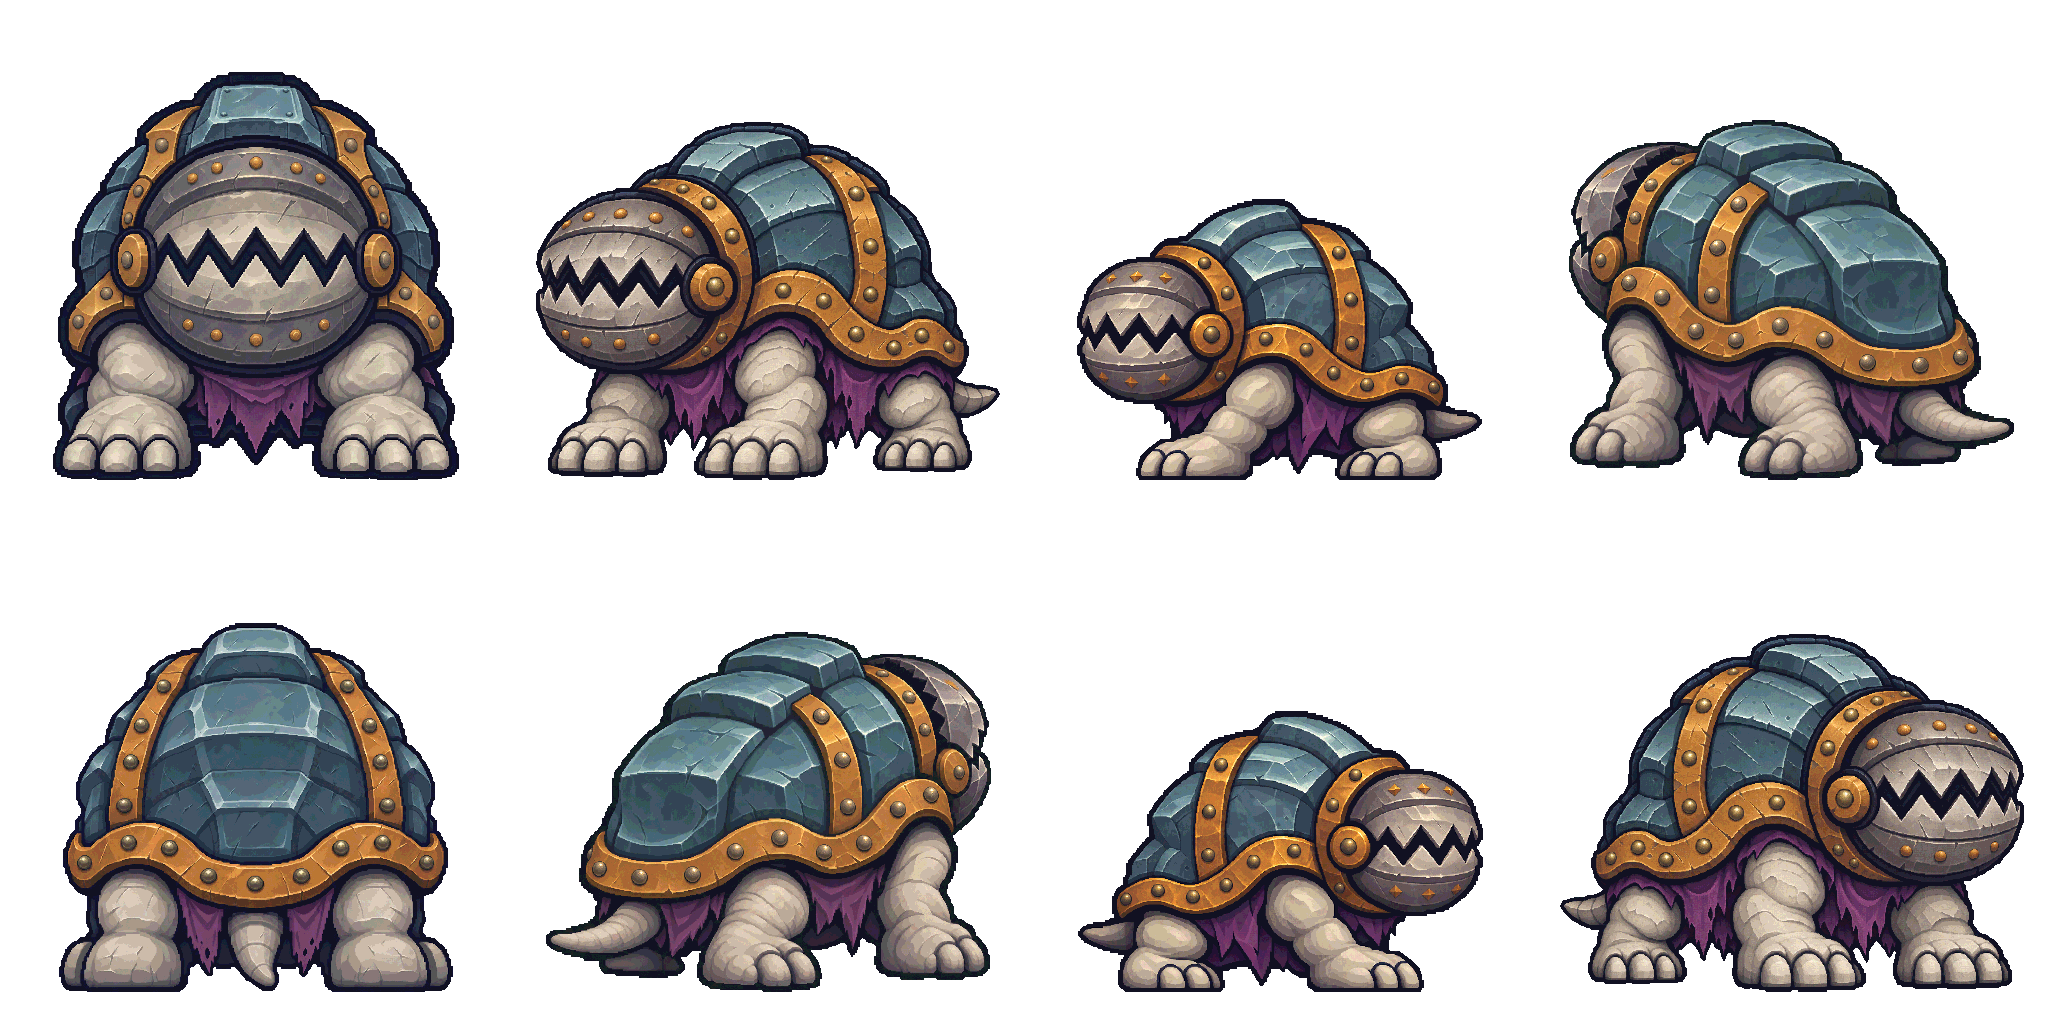
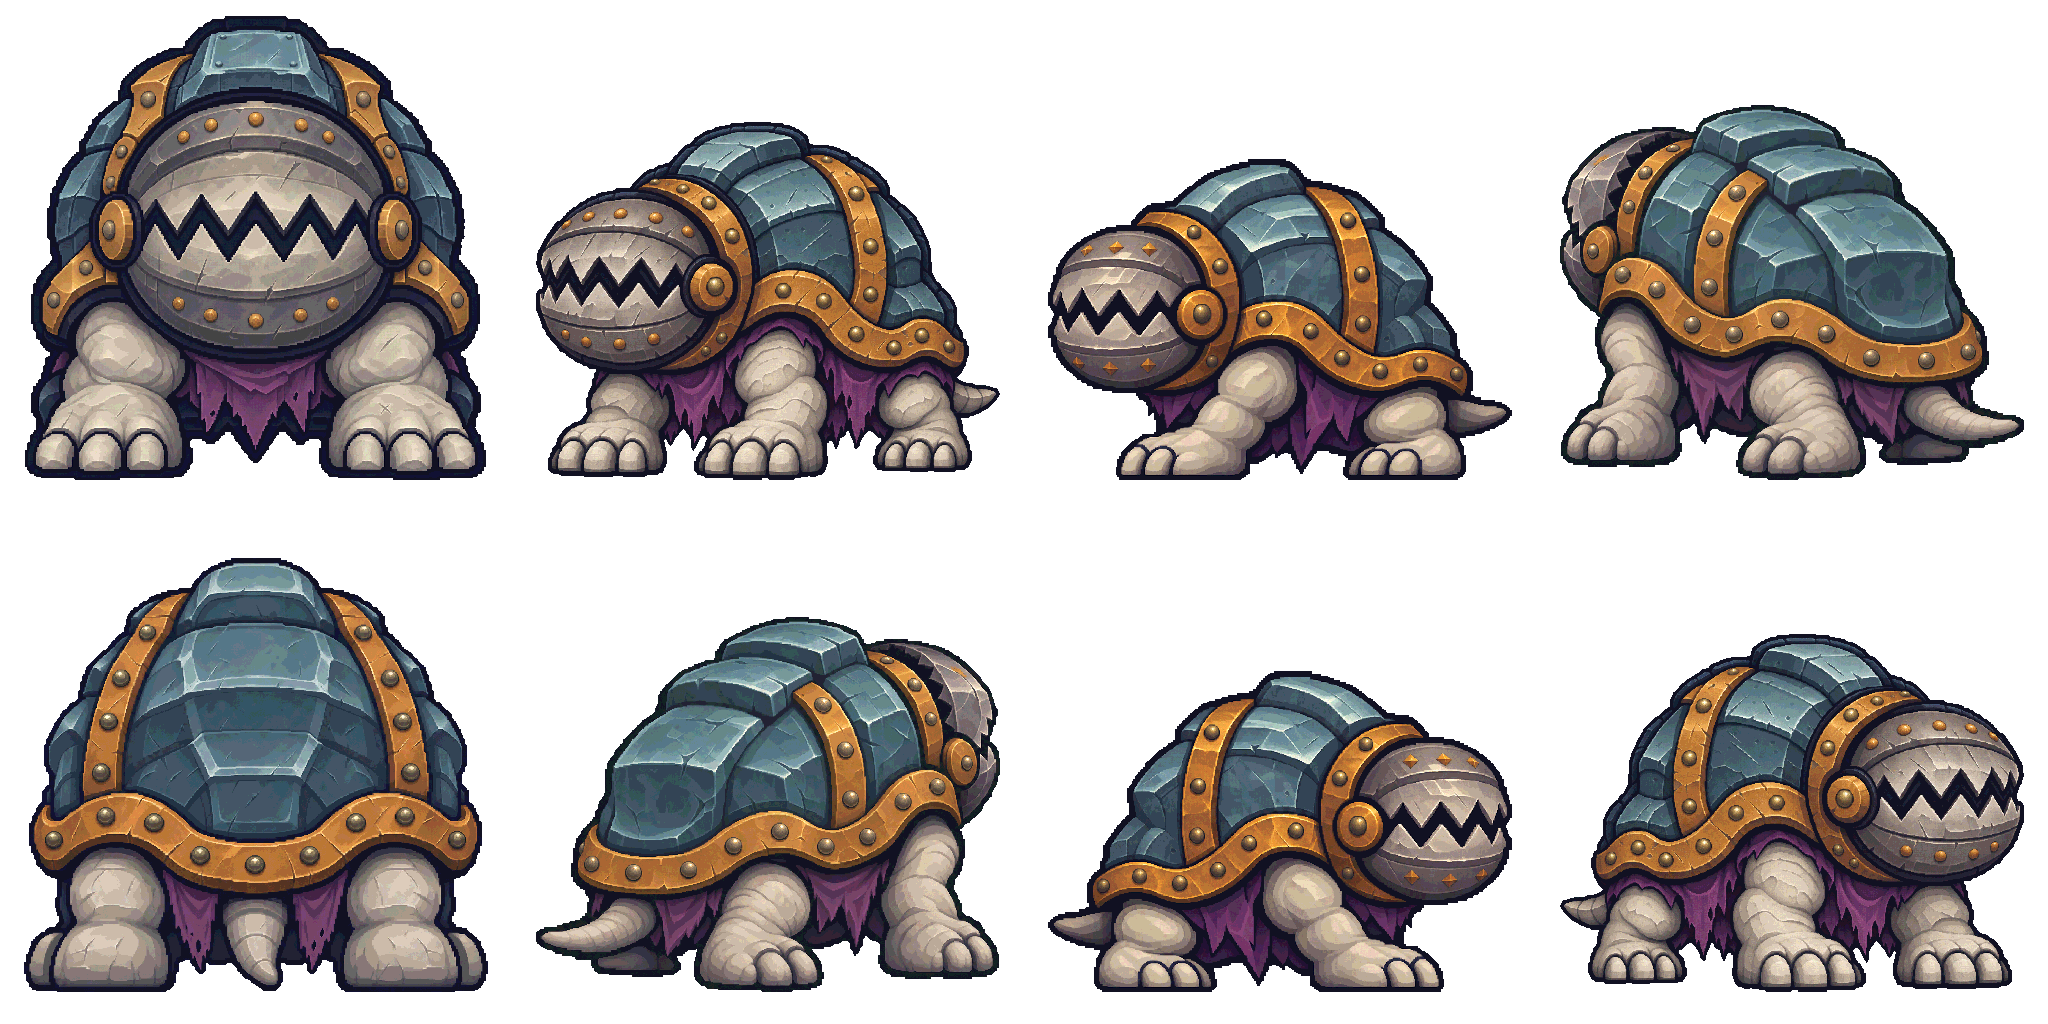
Publish pre-PixelLab concept bundle: angel_guardian

Changed region(s): [[0.0, 0.5312, 0.75, 0.9688], [0.5, 0.0938, 1.0, 0.4688], [0.0, 0.0, 0.25, 0.4688]]

diff --git a/리포트/projects/dotaction/posts/2026-11-20-result-20261120045258321-v1.0.0.md b/리포트/projects/dotaction/posts/2026-11-20-result-20261120045258321-v1.0.0.md
@@ -1,0 +1,59 @@
+---
+title: 철턱 수호괴 · 대형512칸 방향 원본 재제작
+date: 2026-11-20T04:52:58.321Z
+version: v1.0.0
+status: 검증 대기
+state: verification
+project: dotaction
+type: 작업 결과
+report_kind: result
+category: 작업 결과
+summary: 덩치에 비해 축소된 방향 시안을 한 칸512 기준으로 신규 재제작했습니다.
+format: tracefolio-v2
+priority: normal
+severity: normal
+reporter: Codex
+assignee: Codex
+payload: ../assets/submissions/2026-11-20-result-20261120045258321-v1.0.0.json
+---
+
+## 작업 결과
+
+철턱 수호괴의5방향을 각각 새로 그려512칸8방향 시트로 재구성했습니다. 기존64칸 확대가 아닙니다. 일러스트·T포즈는 기존 선택본을 유지합니다. 전체 최신화는 진행 중입니다.
+
+![일러스트](../assets/pre-pixellab-angel_guardian-512-20261120/illustration.webp)
+
+![정후면 몸체와 분리 장비](../assets/pre-pixellab-angel_guardian-512-20261120/tpose.webp)
+
+![512칸8방향 · 전체2048×1024](../assets/pre-pixellab-angel_guardian-512-20261120/directions.webp)
+
+## 변경 내용
+
+### 적용 내용
+
+Iron jaw guardian beast: low quadruped with huge round shut iron bear-trap jaws as its head, curved blue-gray shell, two stout front paws and low tail. Flat squat armored tortoise silhouette.
+
+일러스트 자세: Crouched defensive ambush, enormous jaws snapping open, claws spread, weight compressed into powerful forelegs
+
+일러스트·프로필·몸체 정후면·분리 장비·방향 원본·128 패딩본·대기 참조·출처/프롬프트/해시를 art/characters/철턱수호괴에 저장했습니다. 문서 아카이브도 같은 시안으로 연결했습니다. 게임 모션·공격·FX는 교체하지 않았습니다.
+
+### 대화 기록
+사용자 요청: 누락된 캐릭터/몬스터를 PixelLab 전 단계까지 최신화하고 한 종씩 보고. 몬스터 일러스트는 다양한 자세로 위협적이고 무섭게 제작.
+
+인간형 T포즈가 아닌 네발 체형의 정후면 중립 몸체 기준도입니다. 철제 턱과 등갑은 통합된 머리/생체 구조이며 숨겨진 인간형 머리를 만들지 않았습니다. 하단 턱·등갑·발·꼬리는 생체 상세 컨셉으로 실제 탈착 장비나 리그 파츠가 아닙니다.
+
+후속 요청: 덩치에 비해 작아진 몬스터는512로 늘려 다시 제작. 종별 대형 규격 허용.5방향 각각 ImageGen 신규 제작→512칸 픽셀 파생→3정확한 반전→전체2048×1024.512 대기 참조를 제공하며 이전64/128 방향 파생과 제작 원본은 ZIP에 보존했습니다.
+
+## 검증
+
+실제 신규5방향 원본과512칸 결과 외형 확인. 전체2048×1024, 칸512×512, NE=NW/E=W/SE=SW 정확한 바이트 반전 확인. 과거 파일 ZIP 보관 후 해시 대조. 기존64칸 이미지를 확대하지 않았습니다. 선택 픽셀 파생만 정규화하고 문서 빌드·게시용 WebP 재열기 확인. PixelLab 호출0회, 게임 연결/실행/회귀 테스트 미실행.
+
+## 남은 사항
+
+최종 사용자 미감 승인 대기. PixelLab/리그 파츠/모션·FX·음향 신규 제작과 게임 연결은 이번 요청 범위 밖입니다. 전체 최신화의 나머지 대상은 진행 중입니다. SkillEvaluator는 스킬 변경이 없어 비대상, CLI-Anything은 GUI 조작 없이 ImageGen 및 기존 파일 API를 사용하여 비대상. 대형512칸 예외를 프로젝트 제작 지침과 문서에 반영했습니다. 업데이트 원격 확인 latest2026-11-20-011, 새 채팅 지침의 개별 시안 직접 표시 적용.
+
+## 작업 시간
+
+- 제안 시간: 512칸 대형 몬스터18종 재제작/제작으로 전체 예상에 약60~100분 추가. 종별 원본5장 신규 제작·보관·문서·게시.
+- 실제로 완료된 시간: 이 종512 재제작·정리 21.5분. 시작 2026-11-20T13:29:42.412000+09:00, 저장 2026-11-20T13:51:13.266646+09:00 (Asia/Seoul). 배포 대기 별도.
+- XERJ: 미사용 — 지침에 따라 사용하지 않음. 파일 검색 rg, 기존 이미지와 데이터 대조.
